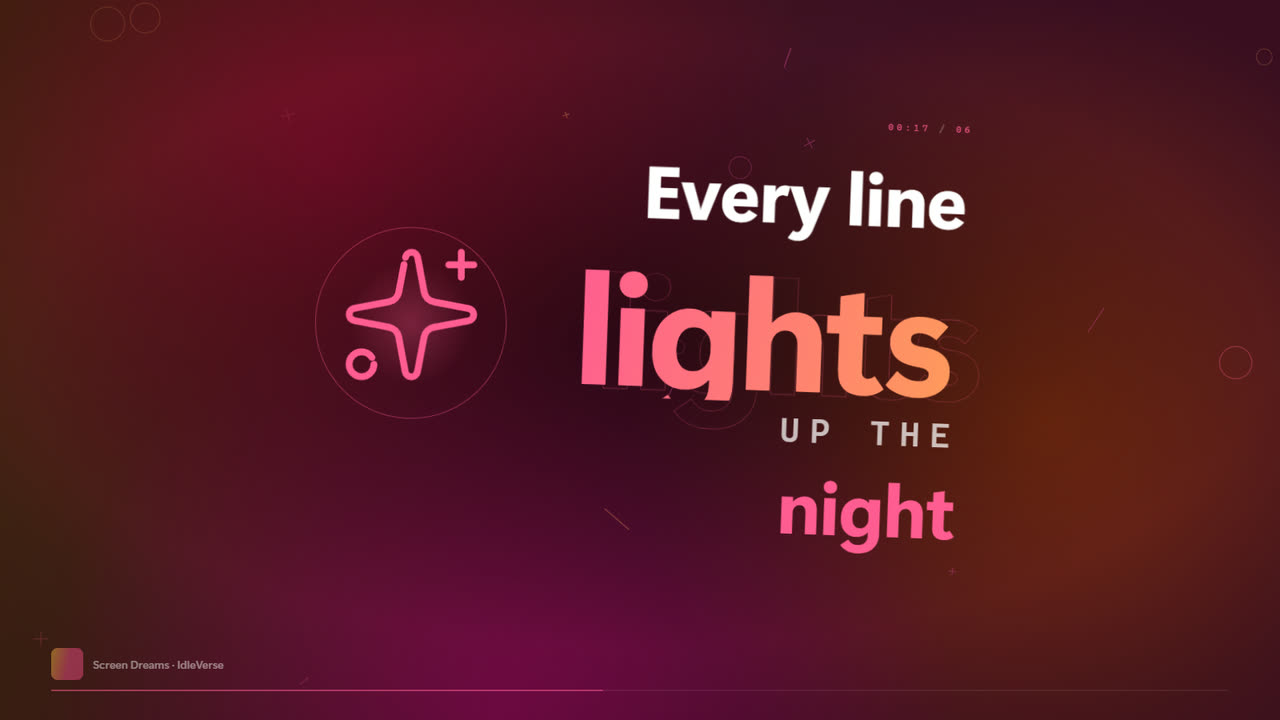
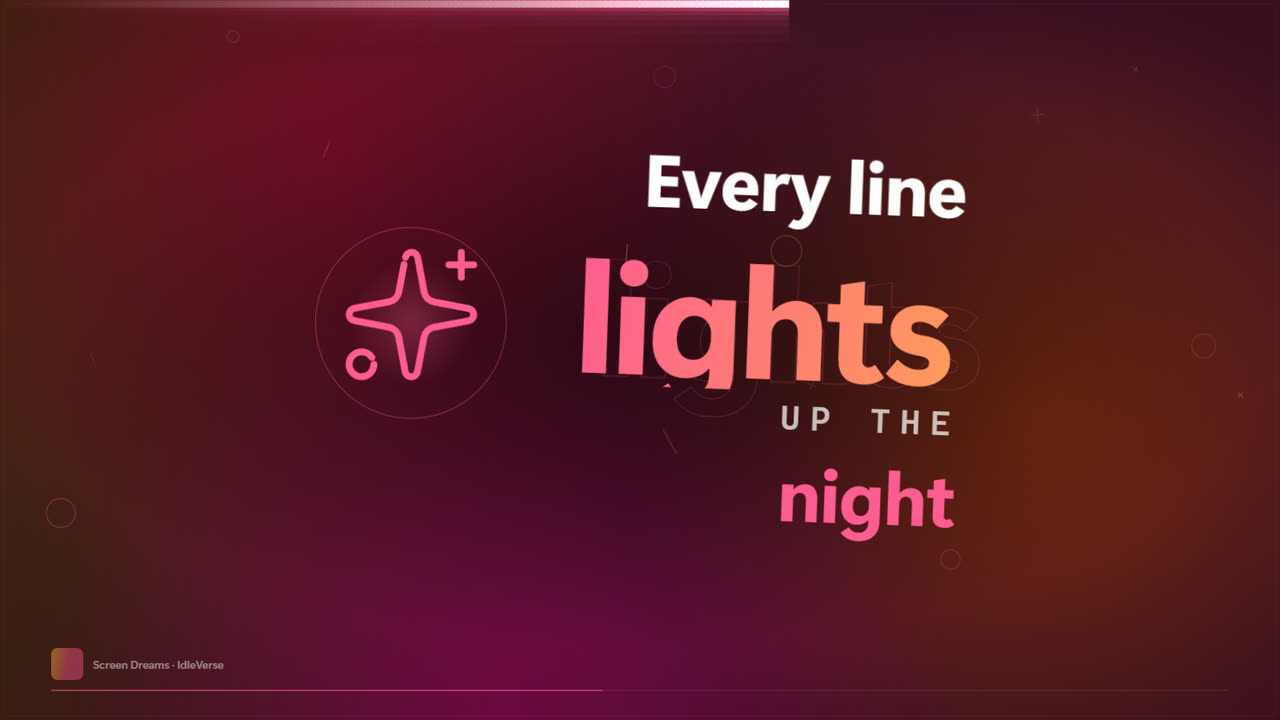
IdleVerse 1.3.1: glowing edge beam, 15 second default
- A thick glowing beam runs round the screen edge; its speed follows
  the lyrics (words per second), surges on each word and stops on pause.
- Removed the song-time / line-number tag above each lyric.
- Default idle time is now 15 seconds; settings still on the old
  1-minute default move over once.
- README screenshots and demo refreshed.

diff --git a/src/renderer/saver.js b/src/renderer/saver.js
@@ -90,6 +90,7 @@ function applyColours() {
     colours.push(`hsl(${H} ${sat}% ${Math.round(t.l * 100)}%)`);
   });
   fx.setColours(colours);
+  frame.setColour(colours[0]);
 }
 
 // The cover is blurred ONCE into a tiny canvas; scaling that up gives a soft backlight
@@ -232,6 +233,94 @@ const fx = (() => {
   return { setMode, setColours };
 })();
 
+// =================== shiny frame ===================
+// One thick glowing beam running round the very edge of the screen, bending round each
+// corner as it turns. Its speed follows the song: quicker when the words come fast, a
+// surge on every word (bigger on the key word), a slow glide in breaks, and still when paused.
+const frame = (() => {
+  const canvas = $('frame'), ctx = canvas.getContext('2d');
+  // Laps of the screen per second at a normal pace, per vibe.
+  const BASE = { sad: 0.016, dreamy: 0.022, happy: 0.042, hype: 0.048, electric: 0.056, intense: 0.062 };
+  let w = 0, h = 0, colour = 'hsl(0 0% 70%)';
+  let pos = Math.random(), speed = 0, rate = 0.8, rateTarget = 0.8, energy = 0;
+  let last = performance.now(), settled = false;
+
+  function resize() {
+    const dpr = Math.min(2, devicePixelRatio || 1);
+    w = innerWidth; h = innerHeight;
+    canvas.width = Math.round(w * dpr); canvas.height = Math.round(h * dpr);
+    ctx.setTransform(dpr, 0, 0, dpr, 0, 0);
+    settled = false;
+  }
+  addEventListener('resize', resize); resize();
+
+  function setColour(c) { colour = c; settled = false; }
+
+  const kick = (a) => { energy = Math.min(1.6, energy + a); };
+  const setFlow = (wordsPerSec) => { rateTarget = Math.max(0.2, Math.min(5, wordsPerSec)); };
+
+  function draw(t) {
+    requestAnimationFrame(draw);
+    const dt = Math.min(0.1, (t - last) / 1000); last = t;
+    const paused = document.body.classList.contains('paused');
+    rate += (rateTarget - rate) * Math.min(1, dt * 1.2);
+    energy *= Math.exp(-dt * 2.4);
+    const want = paused ? 0 : (BASE[vibe] || 0.03) * (0.35 + rate * 0.45) * (1 + energy * 1.5);
+    speed += (want - speed) * Math.min(1, dt * 3);
+    pos = (pos + speed * dt) % 1;
+    if (paused && speed < 1e-4 && energy < 0.01) { if (settled) return; settled = true; } else settled = false;
+
+    const m = 5;                                  // the beam's core sits flush with the screen edge
+    const W = w - 2 * m, H = h - 2 * m, P = 2 * (W + H);
+    const corners = [[m, m, 0], [m + W, m, W], [m + W, m + H, W + H], [m, m + H, 2 * W + H]];
+    const pt = (s) => {
+      s = ((s % P) + P) % P;
+      if (s < W) return [m + s, m];
+      if (s < W + H) return [m + W, m + s - W];
+      if (s < 2 * W + H) return [m + W - (s - W - H), m + H];
+      return [m, m + H - (s - 2 * W - H)];
+    };
+    const seg = (a, b) => {                       // path from a to b along the frame, turning corners
+      ctx.moveTo(...pt(a));
+      for (const [x, y, cs] of corners) {
+        for (const k of [cs, cs + P, cs - P]) if (k > a && k < b) ctx.lineTo(x, y);
+      }
+      ctx.lineTo(...pt(b));
+    };
+
+    ctx.clearRect(0, 0, w, h);
+    ctx.strokeStyle = colour;
+    ctx.globalAlpha = 0.08; ctx.lineWidth = 1;
+    ctx.strokeRect(m, m, W, H);
+
+    // One thick, glowing beam travelling clockwise; it wraps round the corners as it goes.
+    const bright = 0.8 + Math.min(0.2, energy * 0.25);
+    const head = pos * P;
+    const tail = P * (0.2 + 0.06 * Math.min(1, energy));
+    const N = Math.min(140, Math.max(40, Math.round(tail / 7)));   // ~7px steps so the fade is smooth
+    ctx.globalCompositeOperation = 'lighter';
+    ctx.lineCap = 'butt'; ctx.lineJoin = 'round';      // segments butt together without bright beads
+    // Stacked strokes, widest and faintest first, give a soft glow that fades in from the edge.
+    // The wide faint layers are drawn in coarser steps; nobody can see banding that faint.
+    const pass = (n, layers) => {
+      for (let j = 0; j < n; j++) {
+        const a = head - (tail * (j + 1)) / n, b = head - (tail * j) / n;
+        const fade = Math.pow(1 - j / n, 1.4) * bright;
+        ctx.beginPath(); seg(a, b);
+        for (const [lw, alpha, col] of layers) {
+          ctx.strokeStyle = col; ctx.globalAlpha = fade * alpha; ctx.lineWidth = lw; ctx.stroke();
+        }
+      }
+    };
+    pass(Math.ceil(N / 2), [[96, 0.035, colour], [74, 0.045, colour], [56, 0.065, colour], [40, 0.09, colour]]);
+    pass(N, [[28, 0.16, colour], [18, 0.3, colour], [9, 1, '#fff']]);                // glow + hot white core
+    ctx.globalCompositeOperation = 'source-over';
+    ctx.globalAlpha = 1;
+  }
+  requestAnimationFrame(draw);
+  return { setColour, kick, setFlow };
+})();
+
 // =================== data from the main process ===================
 window.saver.onTrack((d) => {
   const sameSong = track && d.track && track.title === d.track.title && track.artist === d.track.artist;
@@ -307,8 +396,6 @@ function iconSvg(name) {
   return `<svg viewBox="0 0 24 24" fill="none" stroke-linecap="round" stroke-linejoin="round">${inner}</svg>`;
 }
 
-const mmss = (ms) => `${String(Math.floor(ms / 60000)).padStart(2, '0')}:${String(Math.floor(ms / 1000) % 60).padStart(2, '0')}`;
-
 // Groups words into poster rows. Returns { html, pic } where pic = { index } or null.
 function compose(line, idx, lifeMs) {
   const words = line.text.split(/\s+/).filter(Boolean);
@@ -362,7 +449,7 @@ function compose(line, idx, lifeMs) {
   const picHtml = pic ? `<div class="pic"><i class="halo"></i>${iconSvg(pic.icon)}</div>` : '';
   const html =
     `<div class="comp a-${align} d-${deco}${pic ? ' has-pic' : ''}" style="--tilt:${tilt}deg;--life:${Math.round(lifeMs)}ms;--draw:${style.picDraw}s">` +
-      `<div class="block"><div class="tag">${mmss(line.t)} <b>/</b> ${String(idx + 1).padStart(2, '0')}</div>${rowHtml}` +
+      `<div class="block">${rowHtml}` +
       (deco === 'brackets' ? '<i class="br tl"></i><i class="br tr"></i><i class="br bl"></i><i class="br br2"></i>' : '') +
       `</div>${picHtml}</div>`;
   return { html, pic, hero };
@@ -427,6 +514,7 @@ function render() {
 
   const line = lines[i];
   if (!line.text) {                                     // instrumental break: a small equaliser
+    frame.setFlow(0.4);
     setCurrent(`rest${i}:${vibe}`, '<div class="eq"><i></i><i></i><i></i><i></i><i></i></div>');
     return;
   }
@@ -437,6 +525,7 @@ function render() {
     const el = setCurrent(`${i}:${vibe}`, html);
     layoutComposition(el);
     lastLineIdx = i;
+    frame.setFlow(line.text.split(/\s+/).length / Math.max(0.8, (nextT - line.t) / 1000));   // words per second
     // Spread the words across the time this line is on screen (weighted by length).
     const span = Math.min(nextT - line.t, Math.max(900, line.text.length * 75)) * 0.85;
     const els = [...el.querySelectorAll('.w')];
@@ -467,6 +556,7 @@ function render() {
         }
       }
       w.pic?.classList.add('on');
+      frame.kick(w.hero ? 0.9 : 0.3);
     }
     active = w.el;
   }

diff --git a/src/main.js b/src/main.js
@@ -15,7 +15,7 @@ if (process.platform === 'darwin') app.dock?.hide(); // lives in the menu bar
 // ---------- settings ----------
 const settingsFile = () => path.join(app.getPath('userData'), 'settings.json');
 const DEFAULTS = {
-  idleSeconds: 60,        // start the screensaver after this much idle time while music plays (0 = never)
+  idleSeconds: 15,        // start the screensaver after this much idle time while music plays (0 = never)
   vibe: 'auto',           // auto | sad | happy | intense | hype | dreamy | electric
   keepAwake: true,        // stop the display sleeping while lyrics are on screen
   stopAfterPauseMin: 2,   // music paused this long -> close and let the screen sleep normally
@@ -29,6 +29,9 @@ const DEFAULTS = {
 let settings = { ...DEFAULTS };
 try { settings = { ...DEFAULTS, ...JSON.parse(fs.readFileSync(settingsFile(), 'utf8')) }; } catch {}
 delete settings.style;    // replaced by "vibe" in 1.1
+// 1.3.1: the default idle time went from 1 minute to 15 seconds. Settings files saved by
+// older versions hold the old default, so move them over once.
+if (!settings.v) { if (settings.idleSeconds === 60) settings.idleSeconds = 15; settings.v = 2; }
 const save = () => { if (SNAP) return; try { fs.writeFileSync(settingsFile(), JSON.stringify(settings, null, 2)); } catch {} };
 
 // ---------- state ----------

diff --git a/src/renderer/style.css b/src/renderer/style.css
@@ -49,7 +49,8 @@ body.paused #stage, body.paused #fx { opacity: .35; }
 /* Darkens the middle so lyrics stay readable and the screen stays mostly dark (power saving). */
 #shade { position: fixed; inset: 0; pointer-events: none; background: radial-gradient(ellipse 70% 60% at 50% 48%, rgba(0,0,0,.62), rgba(0,0,0,.25) 70%, rgba(0,0,0,.35)); }
 
-#fx { position: fixed; inset: 0; width: 100%; height: 100%; pointer-events: none; }
+#fx, #frame { position: fixed; inset: 0; width: 100%; height: 100%; pointer-events: none; }
+body.paused #frame { opacity: .45; }
 
 /* ---- stage ---- */
 #stage {
@@ -102,13 +103,6 @@ body {
 .a-left .block { align-items: flex-start; text-align: left; }
 .a-center .block { align-items: center; text-align: center; }
 .a-right .block { align-items: flex-end; text-align: right; }
-
-.tag {
-  font: 500 max(11px, 1.3vh) var(--mono); letter-spacing: .3em; color: var(--c1); opacity: 0;
-  margin-bottom: 1.6vh; animation: fadeIn .6s .1s ease forwards;
-}
-.tag b { color: rgba(255,255,255,.35); font-weight: 400; }
-@keyframes fadeIn { to { opacity: .8; } }
 
 .row { position: relative; white-space: nowrap; padding: .04em .06em; }
 .txt { position: relative; display: inline-block; }

diff --git a/src/renderer/index.html b/src/renderer/index.html
@@ -11,6 +11,7 @@
   <div id="blobs"><i></i><i></i><i></i></div>
   <div id="shade"></div>
   <canvas id="fx"></canvas>
+  <canvas id="frame"></canvas>
 
   <main id="stage">
     <div id="prev" class="side"></div>

diff --git a/README.md b/README.md
@@ -53,7 +53,7 @@ Lyrics are time-synced, and each word appears as it's sung. If the timing is a l
 <td valign="top">
 
 **🎬 &nbsp;Kinetic typography**<br>
-Every line is laid out like a little poster: the key word goes big, small words sit in spaced-out type, and words rise, wipe and slide in with underlines, highlight bars, circles and brackets animating around them.
+Every line is laid out like a little poster: the key word goes big, small words sit in spaced-out type, and words rise, wipe and slide in with underlines, highlight bars, circles and brackets animating around them. A glowing beam races round the edge of the screen, speeding up and surging with the song.
 
 </td>
 <td valign="top">
@@ -214,7 +214,7 @@ Pushing a tag like `v1.2.0` makes GitHub Actions build both installers and attac
 | | |
 |---|---|
 | **Click the tray / menu-bar icon** | Show the lyrics right now |
-| **Right-click the icon** | Settings: idle time, lyric design, keep screen on, launch at login, demo song |
+| **Right-click the icon** | Settings: idle time (15 seconds by default), lyric design, keep screen on, launch at login, demo song |
 | **Move the mouse** | Show the playback bar (previous · play / pause · next) and the Exit button |
 | <kbd>Space</kbd> | Play / pause |
 | <kbd>←</kbd> &nbsp;<kbd>→</kbd> | Previous / next song |
